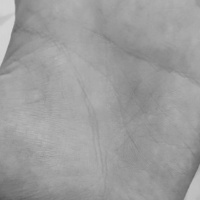
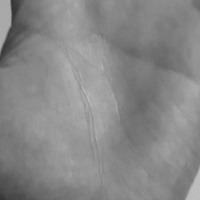
data augmentation

diff --git a/palmprint-ml/palmprint_api.py b/palmprint-ml/palmprint_api.py
@@ -55,11 +55,6 @@ GABOR_LAMBDA = 10.0
 GABOR_GAMMA  = 0.5
 GABOR_THETAS = [0, np.pi/4, np.pi/2, 3*np.pi/4]
 
-# Skin detection — YCrCb range
-SKIN_LOWER_YCR = np.array([0,   133, 77],  dtype=np.uint8)
-SKIN_UPPER_YCR = np.array([255, 173, 127], dtype=np.uint8)
-
-
 # =====================================================================
 # OUTPUT HELPERS
 # =====================================================================
@@ -77,21 +72,6 @@ def output_error(message):
         "status"  : "error",
         "message" : message
     }))
-
-
-# =====================================================================
-# STEP 1 — OPENCV PALM DETECTOR
-# Ganti YOLO → OpenCV YCrCb + HSV skin segmentation
-#
-# Pipeline:
-#   1. YCrCb skin color segmentation
-#   2. HSV skin backup
-#   3. Gabung kedua mask
-#   4. Morphological cleaning (open → close → dilate)
-#   5. Cari kontur terbesar → centroid
-#   6. Fallback: kontur intensity jika skin tidak terdeteksi
-#   7. Center ROI crop ROI_SIZE × ROI_SIZE
-# =====================================================================
 
 
 # =====================================================================
@@ -150,52 +130,66 @@ def normalize_illumination(img_gray):
 # =====================================================================
 # STEP 3 — ENHANCEMENT (Gabor + CLAHE)
 # =====================================================================
-def enhance_gabor(img_gray):
+def enhance_gabor(
+    img_gray,
+    ksize=None,
+    sigma=None,
+    lambd=None,
+    gamma=None,
+    thetas=None,
+    use_dog=False
+):
     """
-    [DIMODIFIKASI - FASE 1B]
-    Gabor filter bank multi-orientasi + CLAHE, dengan illumination
-    normalization (DoG) di awal pipeline.
- 
-    Pipeline baru:
-      img_gray → DoG normalization → Gabor filter bank → max response → CLAHE
- 
-    Perubahan dari versi lama:
-      - Tambah normalize_illumination(DoG) di baris pertama
-      - Gabor dan CLAHE tetap sama persis
- 
-    Kenapa DoG di awal, bukan setelah Gabor:
-      Gabor bekerja lebih baik pada input yang sudah bersih dari variasi
-      cahaya global. DoG di awal = beri input terbaik ke Gabor.
- 
-    Args:
-        img_gray: grayscale ROI (np.uint8), ukuran ROI_SIZE x ROI_SIZE
- 
-    Returns:
-        enhanced (np.uint8): hasil Gabor+CLAHE setelah normalisasi cahaya
+    Gabor filter bank multi-orientasi + CLAHE.
+    Parameter bisa di-override untuk tuning.
     """
-    # ── FASE 1B: Normalisasi pencahayaan sebelum Gabor ──
-    img_gray = normalize_illumination(img_gray)
- 
-    # ── Gabor filter bank (sama persis dengan versi lama) ──
+
+    ksize  = ksize  or GABOR_KSIZE
+    sigma  = sigma  or GABOR_SIGMA
+    lambd  = lambd  or GABOR_LAMBDA
+    gamma  = gamma  or GABOR_GAMMA
+    thetas = thetas or GABOR_THETAS
+
+    # Optional DoG
+    if use_dog:
+        img_gray = normalize_illumination(img_gray)
+
     responses = []
-    for theta in GABOR_THETAS:
+
+    for theta in thetas:
         kernel = cv2.getGaborKernel(
-            ksize  = (GABOR_KSIZE, GABOR_KSIZE),
-            sigma  = GABOR_SIGMA,
-            theta  = theta,
-            lambd  = GABOR_LAMBDA,
-            gamma  = GABOR_GAMMA,
-            psi    = 0,
-            ktype  = cv2.CV_32F
+            ksize=(ksize, ksize),
+            sigma=sigma,
+            theta=theta,
+            lambd=lambd,
+            gamma=gamma,
+            psi=0,
+            ktype=cv2.CV_32F
         )
-        resp = cv2.filter2D(img_gray.astype(np.float32), cv2.CV_32F, kernel)
+
+        resp = cv2.filter2D(
+            img_gray.astype(np.float32),
+            cv2.CV_32F,
+            kernel
+        )
+
         responses.append(np.abs(resp))
- 
+
     gabor_max = np.max(responses, axis=0)
-    gabor_max = cv2.normalize(gabor_max, None, 0, 255, cv2.NORM_MINMAX).astype(np.uint8)
- 
-    # ── CLAHE (sama persis dengan versi lama) ──
-    clahe = cv2.createCLAHE(clipLimit=CLAHE_CLIP, tileGridSize=CLAHE_TILE)
+
+    gabor_max = cv2.normalize(
+        gabor_max,
+        None,
+        0,
+        255,
+        cv2.NORM_MINMAX
+    ).astype(np.uint8)
+
+    clahe = cv2.createCLAHE(
+        clipLimit=CLAHE_CLIP,
+        tileGridSize=CLAHE_TILE
+    )
+
     return clahe.apply(gabor_max)
 
 
@@ -279,10 +273,10 @@ def process_image(image_path):
         sys.exit(1)
 
     # Pipeline ekstraksi
-    roi      = extract_roi(img)           # OpenCV skin detect + centroid ROI
+    roi      = extract_roi(img)            # MediaPipe: alignment + dynamic ROI crop (Fase 1A)
     debug_path = os.path.join(BASE_DIR, "debug_roi.jpg")
     cv2.imwrite(debug_path, roi)
-    enhanced = enhance_gabor(roi)         # Gabor + CLAHE
+    enhanced = enhance_gabor(roi, use_dog=True)  # aktifkan DoG untuk foto HP
     feat     = extract_hog_sgf(enhanced)  # HOG-SGF (1812 dim, L2-norm)
 
     # Transform dengan model

diff --git a/palmprint-ml/roi_mediapipe.py b/palmprint-ml/roi_mediapipe.py
@@ -147,8 +147,8 @@ def _compute_dynamic_roi_size(lm, w, h):
       Untuk kamera HP, dynamic ROI tetap lebih besar dari fixed 200px
       sehingga tetap tight ke telapak.
     """
-    ROI_SIZE_MIN = 100
-    ROI_SIZE_MAX = 320  # turun dari 400
+    ROI_SIZE_MIN = 80
+    ROI_SIZE_MAX = 250  # turun dari 400
 
     wrist_x  = lm[0].x * w
     wrist_y  = lm[0].y * h
@@ -158,7 +158,7 @@ def _compute_dynamic_roi_size(lm, w, h):
     dist_wrist_to_mid = np.sqrt((mid_x - wrist_x)**2 + (mid_y - wrist_y)**2)
 
     # Faktor 1.1 — lebih konservatif, aman untuk kedua kondisi
-    roi_size = int(dist_wrist_to_mid * 1.1)
+    roi_size = int(dist_wrist_to_mid * 0.85)
     roi_size = int(np.clip(roi_size, ROI_SIZE_MIN, ROI_SIZE_MAX))
 
     return roi_size